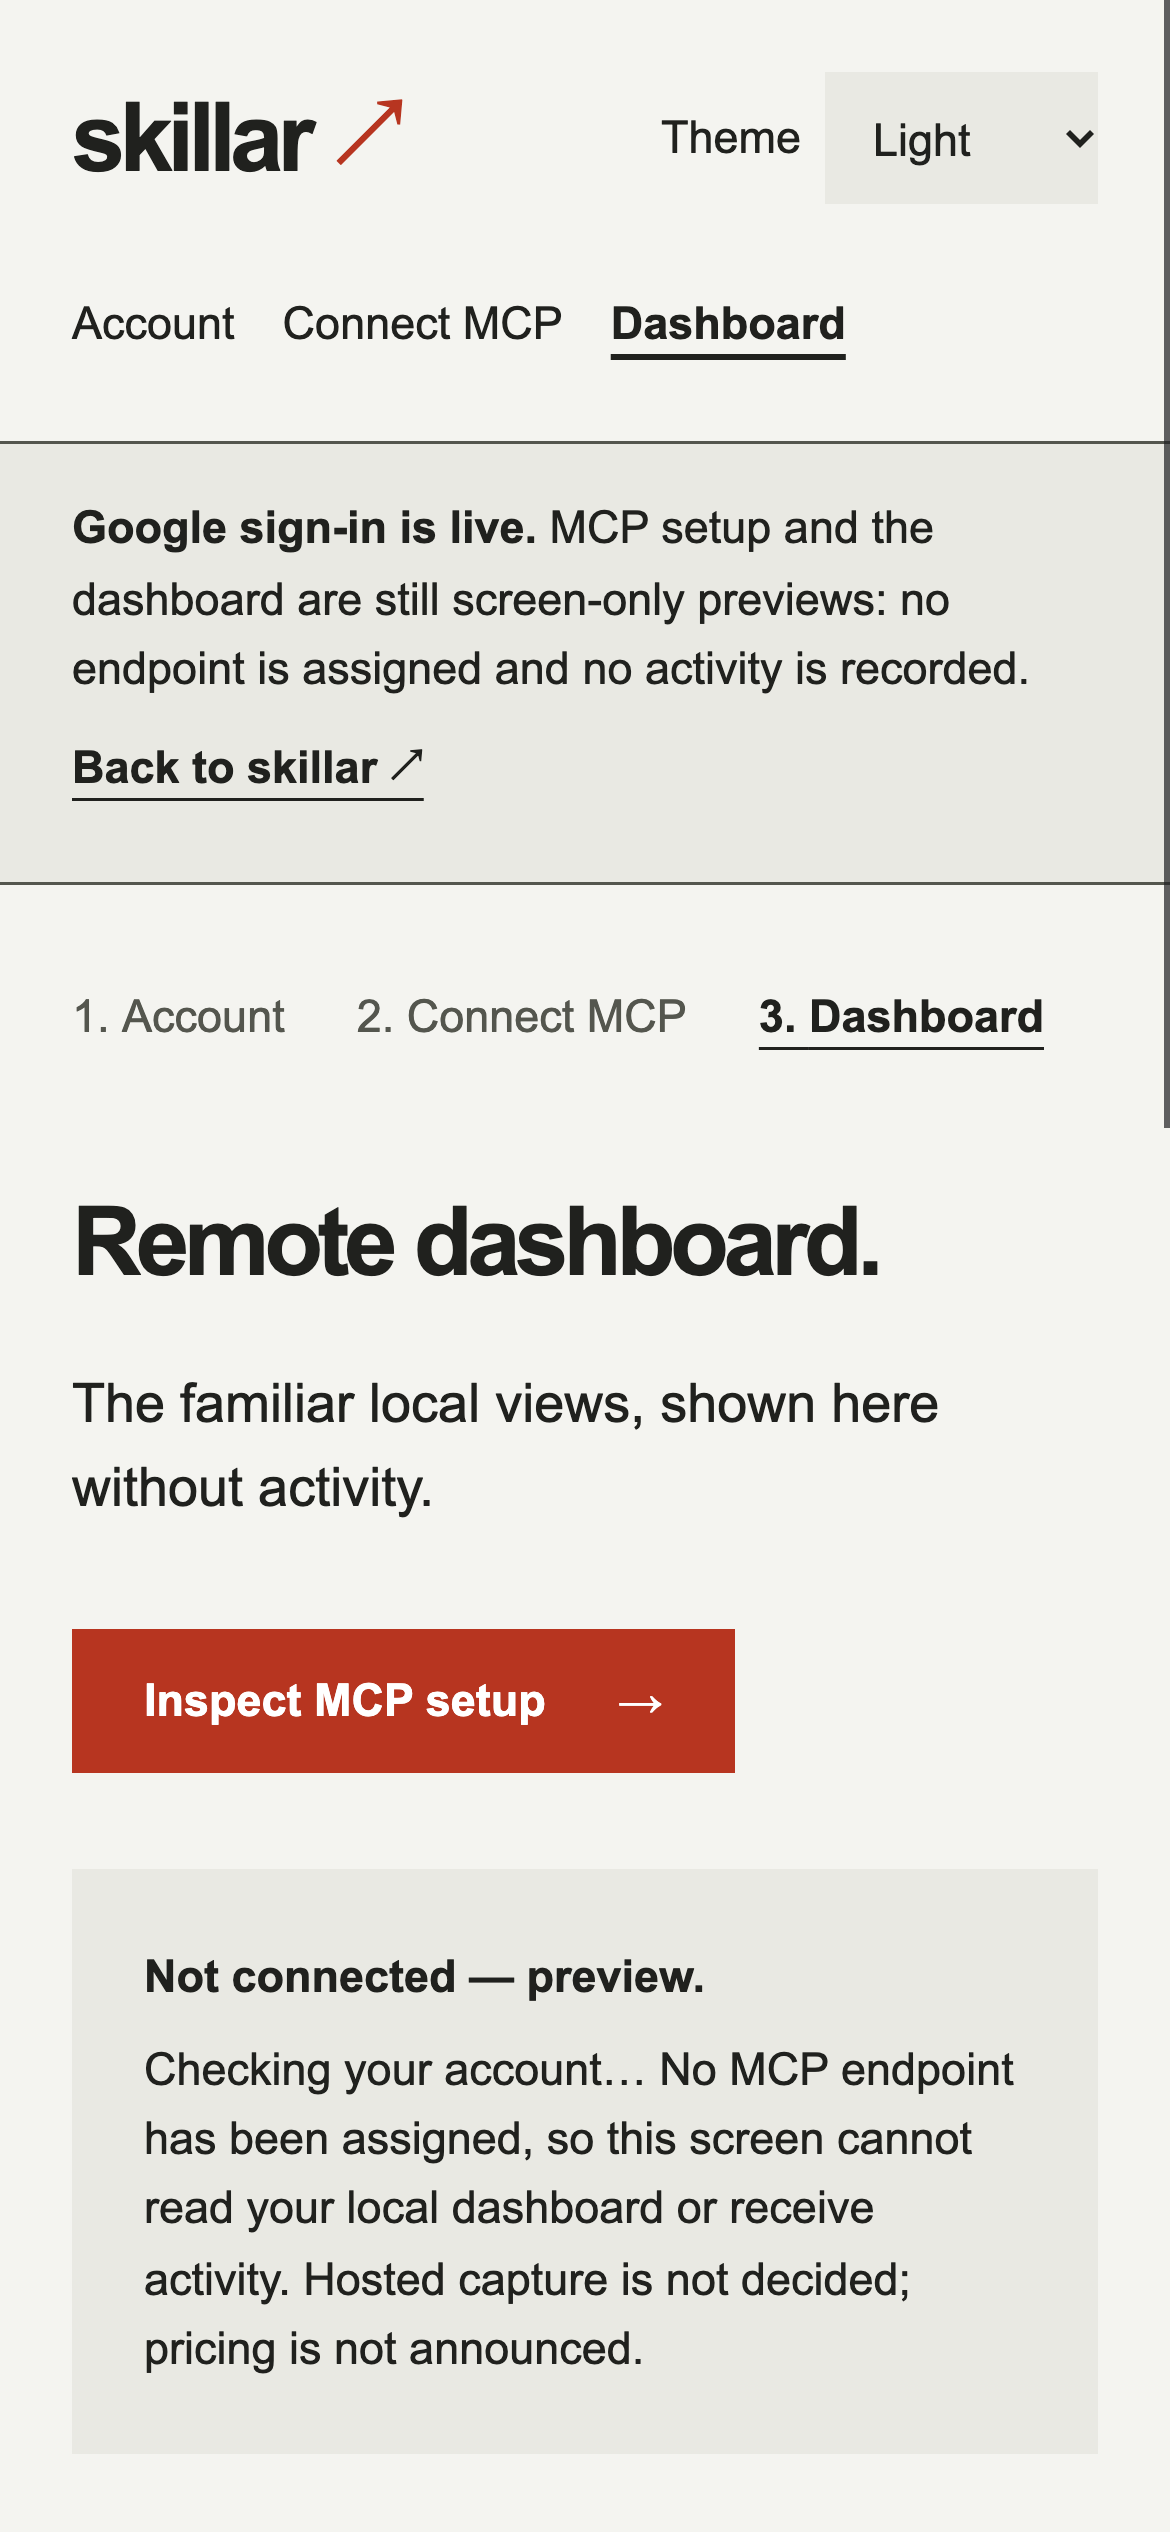
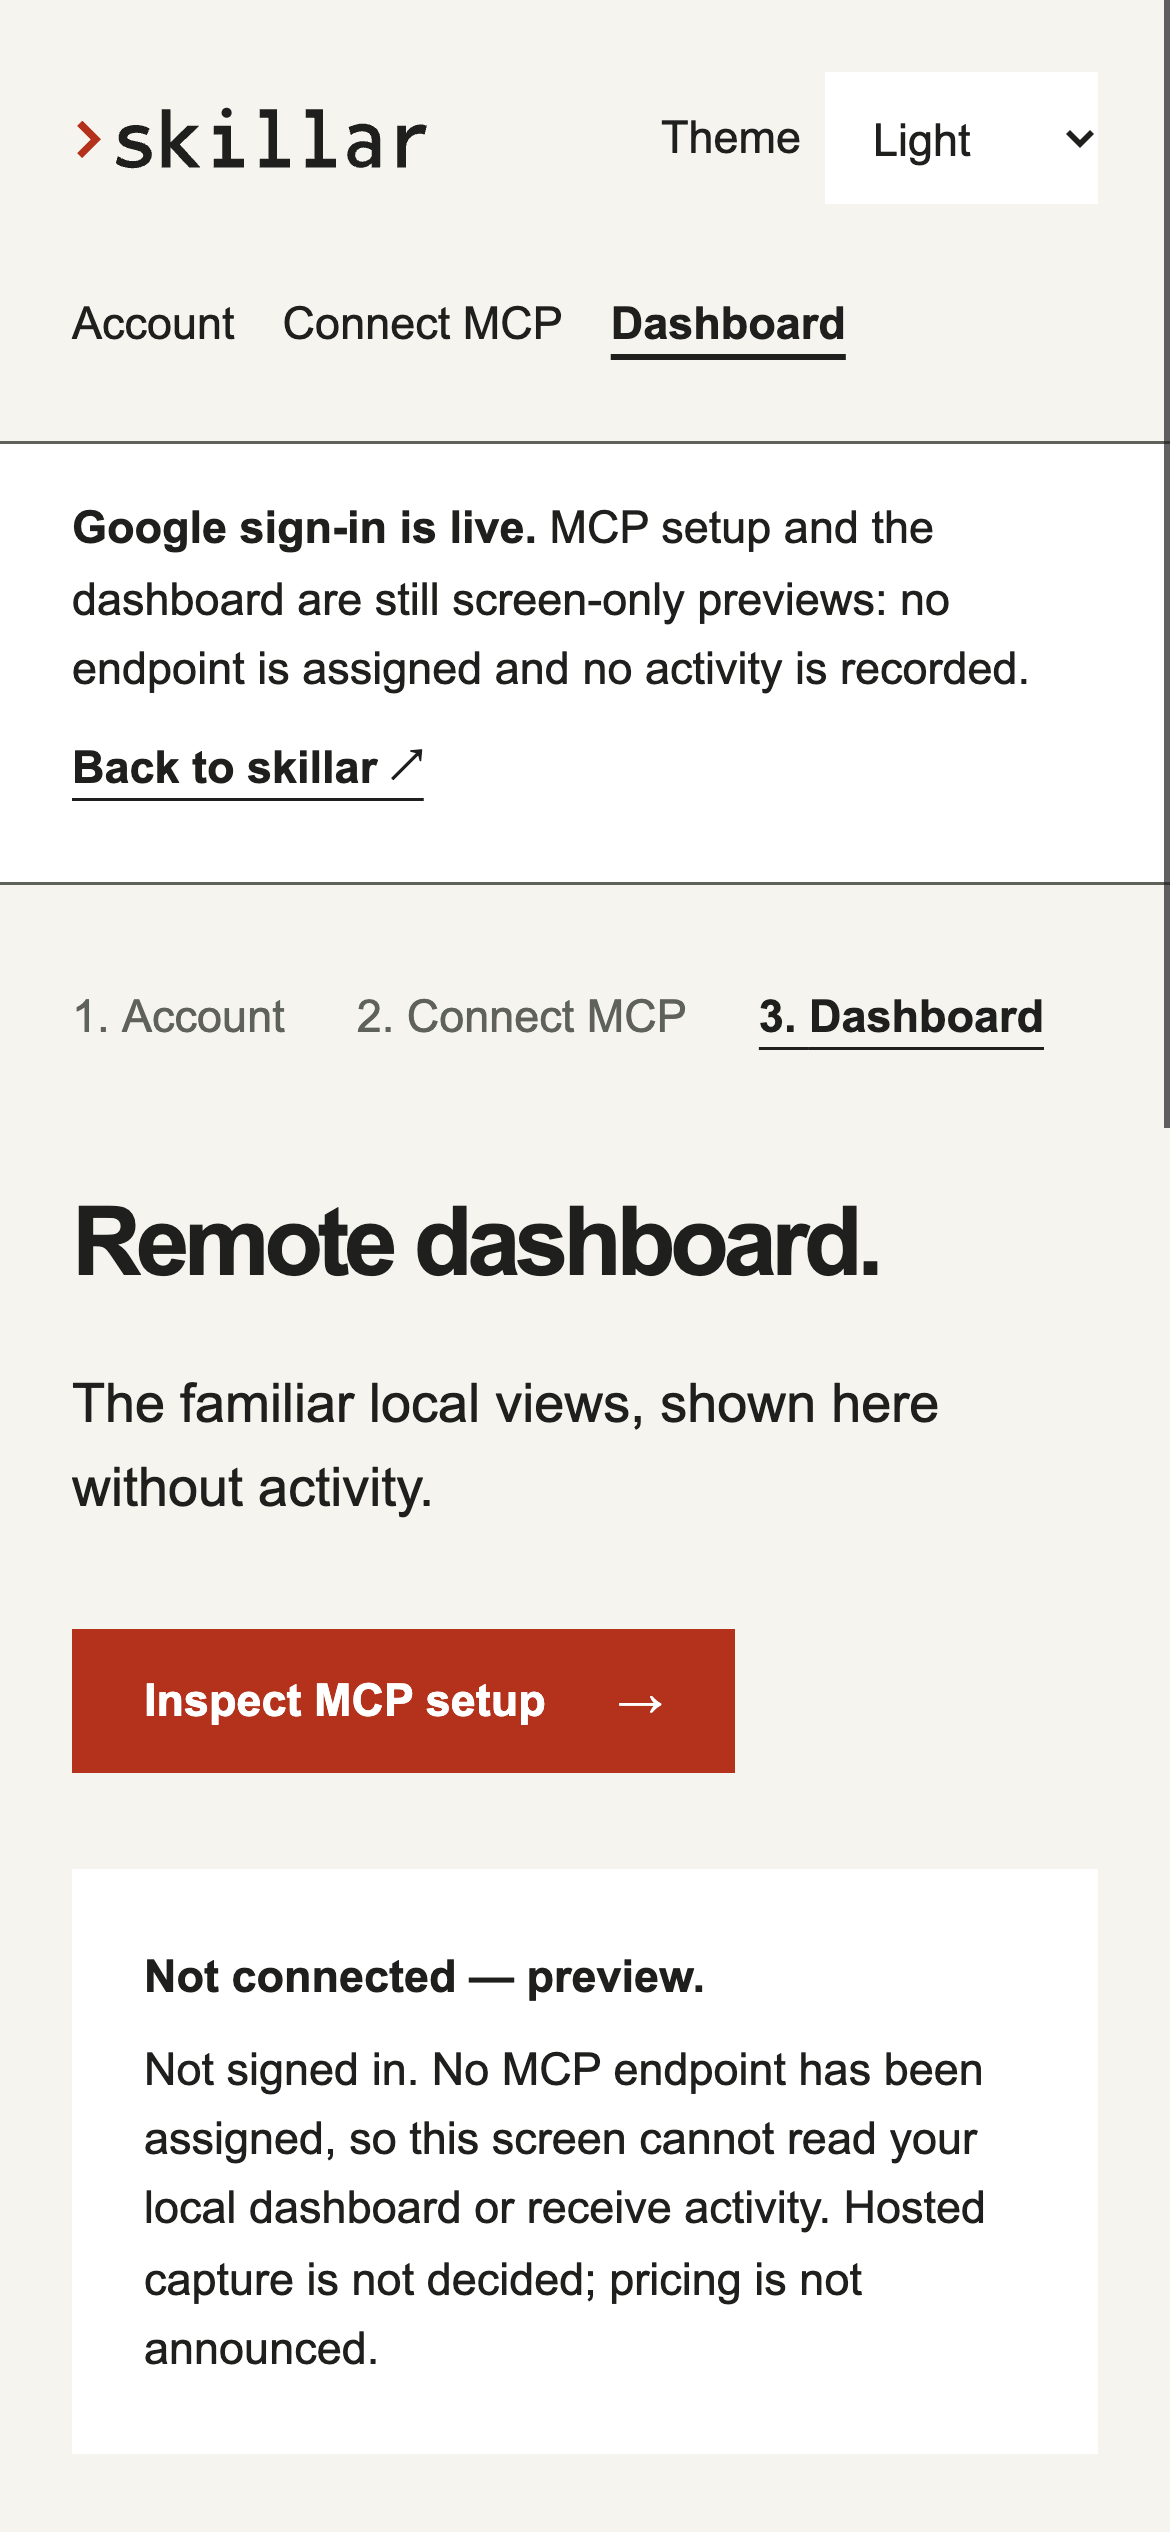
docs: align P8 before and after evidence with merged brand

diff --git a/README.md b/README.md
@@ -2,11 +2,13 @@
 
 This dedicated branch contains review images, not application source.
 The refreshed candidate images correspond to application commit
-`623c5a4906575dad027a77acaf5fc641a21e2c26` (PR #59). Anonymous P7 before images
-are unchanged.
+`091d3f1367e81fc591ea37f28addf69ba90ce1d8` (PR #59), rebased on brand
+`7aa0b04`. Anonymous before images were recaptured after that brand deploy
+was confirmed live, before P8 activation. Both sides use the same new palette
+and `›skillar` header, with matching viewport and top-of-page framing.
 
-- `before/`: the existing P7 production site at `https://skillar.sh/dashboard/`,
-  captured anonymously before the P8 deployment.
+- `before/`: the existing P7 feature baseline plus brand PR60 in production at
+  `https://skillar.sh/dashboard/`, captured anonymously before P8 deployment.
 - `after/`: the P8 candidate build's anonymous dashboard, at the same viewport
   and color theme, served by the loopback QA harness.
 - `fixture/`: the candidate's authenticated views and consent controls. Every
